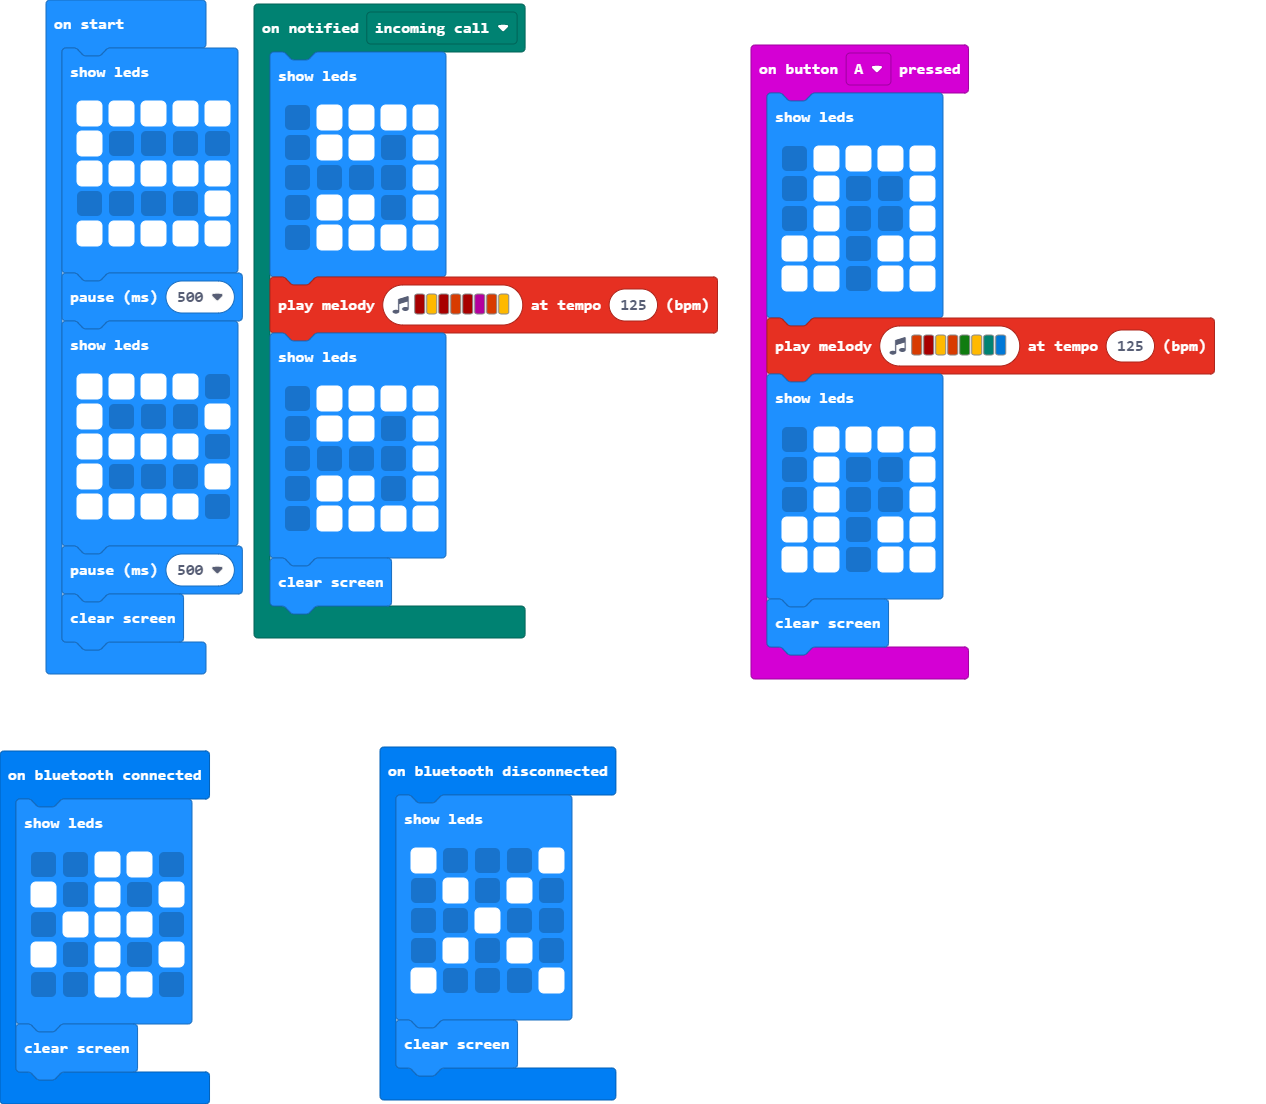
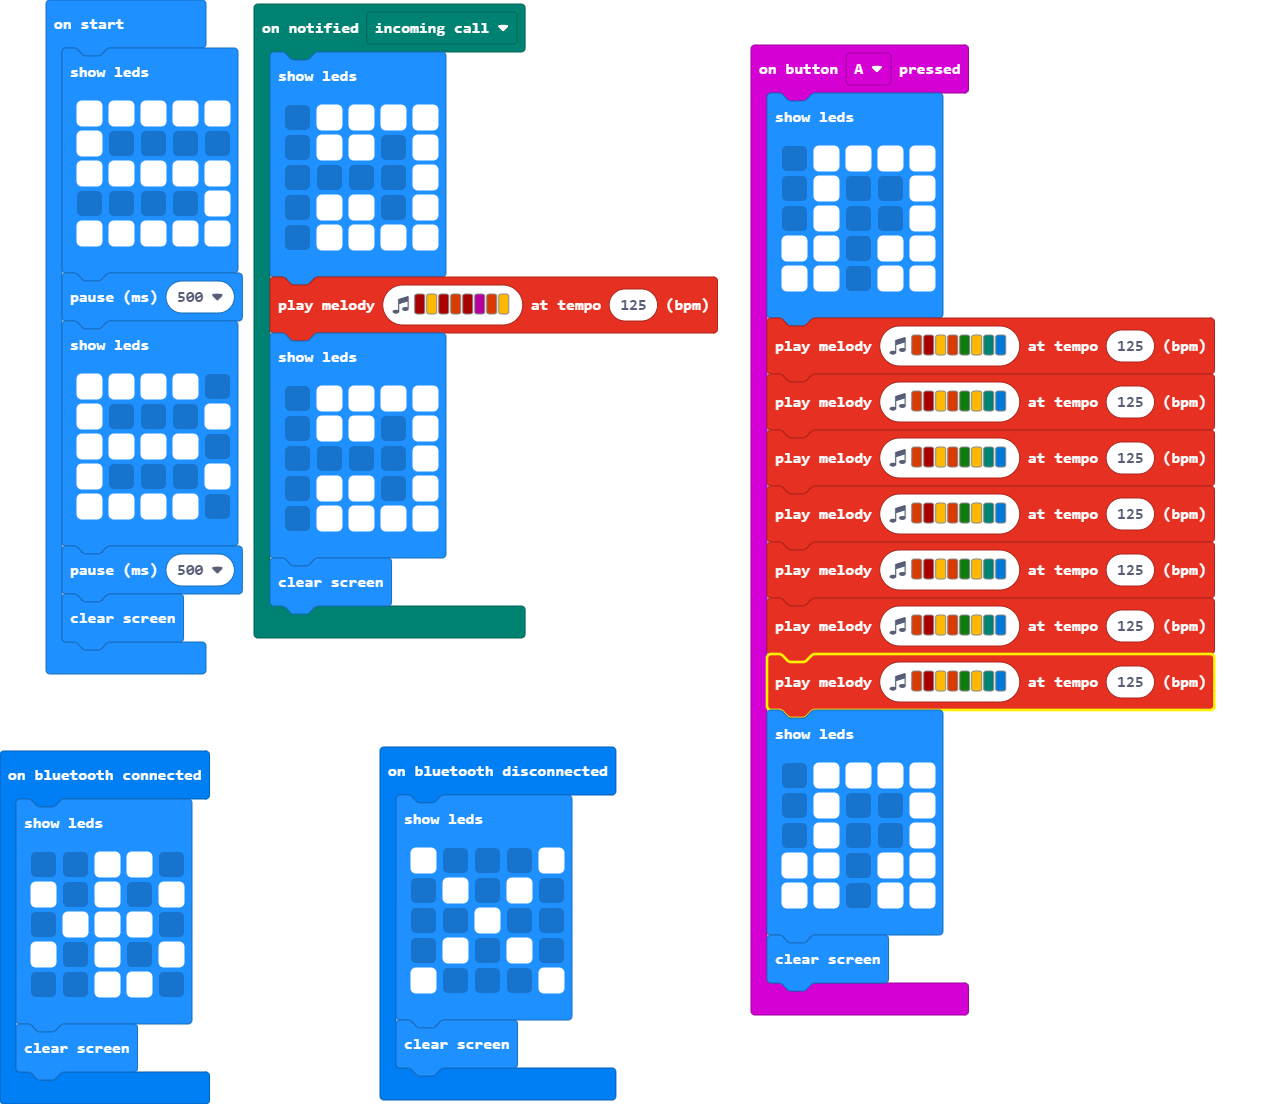
MUSIC TIME

Changed region(s): [[0.5853, 0.3388, 0.9858, 0.9239]]

diff --git a/main.ts b/main.ts
@@ -45,6 +45,12 @@ input.onButtonPressed(Button.A, function () {
         # # . # #
         `)
     music.playMelody("B C5 A B G A F E ", 125)
+    music.playMelody("B C5 A B G A F E ", 125)
+    music.playMelody("B C5 A B G A F E ", 125)
+    music.playMelody("B C5 A B G A F E ", 125)
+    music.playMelody("B C5 A B G A F E ", 125)
+    music.playMelody("B C5 A B G A F E ", 125)
+    music.playMelody("B C5 A B G A F E ", 125)
     basic.showLeds(`
         . # # # #
         . # . . #
